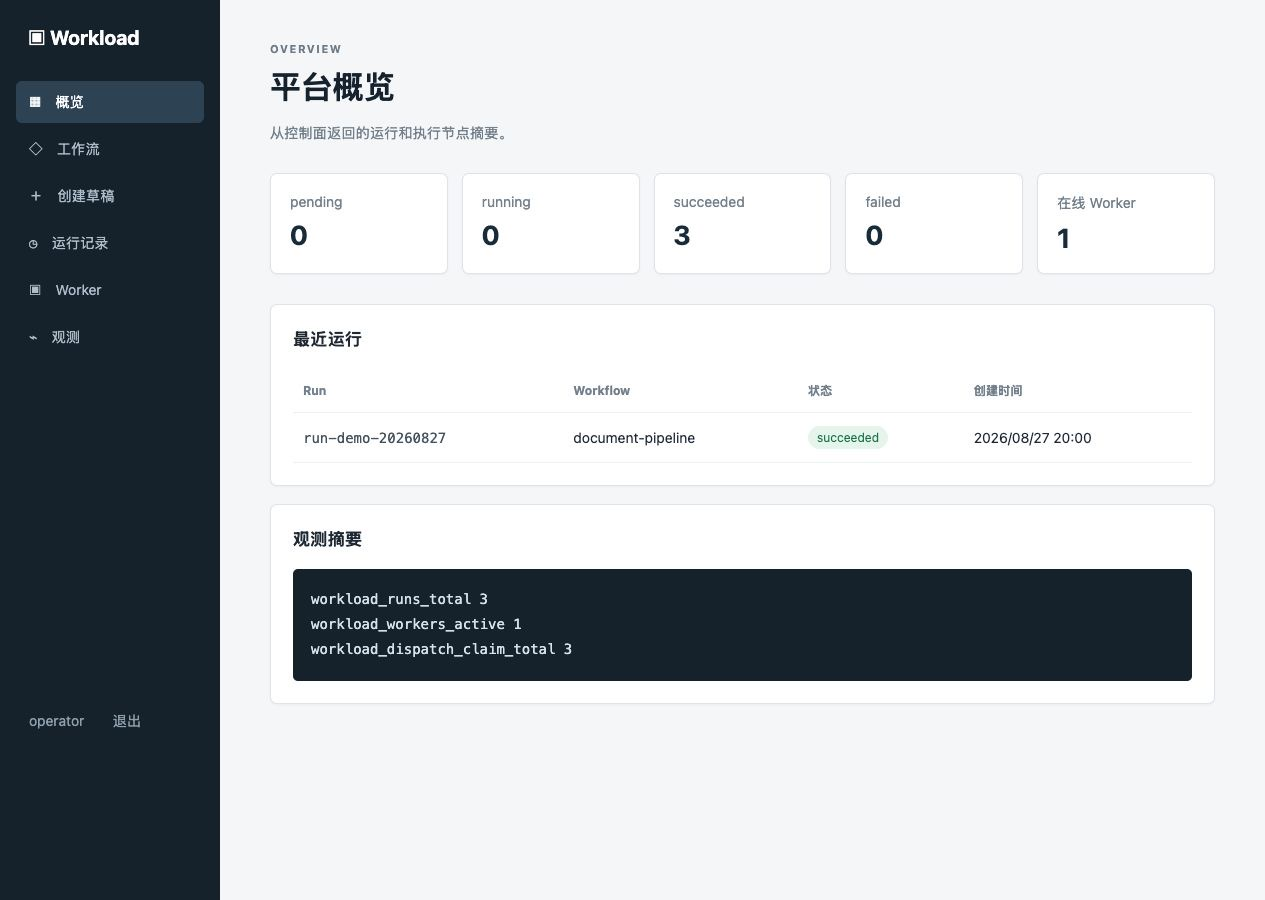
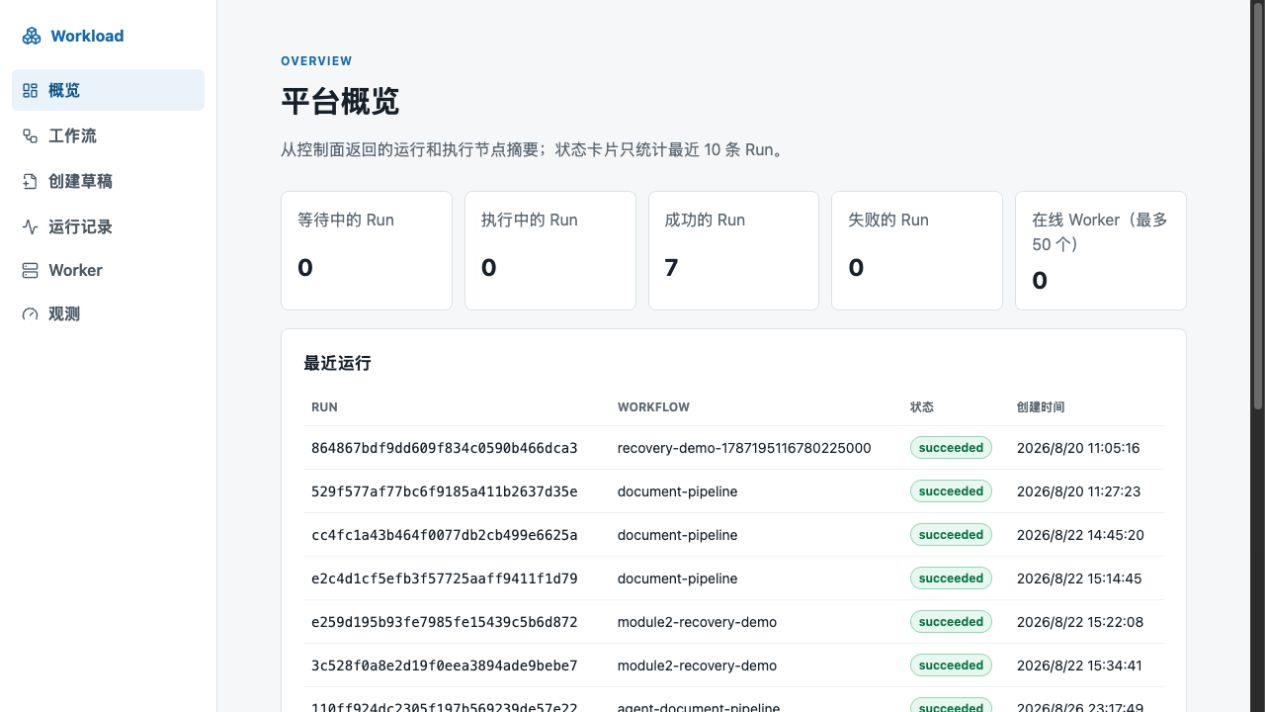
完善模块7控制台演示文档与截图

diff --git a/web/src/pages/OverviewPage.tsx b/web/src/pages/OverviewPage.tsx
@@ -11,5 +11,6 @@ export function OverviewPage({ client }: { client: ApiClient }): ReactElement {
   const [error, setError] = useState<Error>();
   useEffect(() => { const controller = new AbortController(); void Promise.all([client.get<RunPage>("/api/v1/runs?limit=10", controller.signal), client.get<WorkerPage>("/api/v1/workers?limit=50", controller.signal), client.getText("/metrics", controller.signal)]).then(([runPage, workerPage, text]) => { setRuns(runPage); setWorkers(workerPage); setMetrics(text); }).catch((caught) => { if (!(caught instanceof DOMException && caught.name === "AbortError")) setError(caught instanceof Error ? caught : new Error("加载概览失败")); }); return () => controller.abort(); }, [client]);
   const counts = runs?.items.reduce<Record<string, number>>((all, run) => ({ ...all, [run.status]: (all[run.status] ?? 0) + 1 }), {}) ?? {};
-  return <section><header className="page-header"><p className="eyebrow">Overview</p><h1>平台概览</h1><p className="muted">从控制面返回的运行和执行节点摘要。</p></header><AsyncState loading={!runs && !workers} error={error}><div className="stat-grid">{["pending", "running", "succeeded", "failed"].map((status) => <div className="stat-panel" key={status}><span className="muted">{status}</span><strong>{counts[status] ?? 0}</strong></div>)}<div className="stat-panel"><span className="muted">在线 Worker</span><strong>{workers?.items.filter((worker) => worker.status === "active").length ?? 0}</strong></div></div><section className="content-panel"><h2>最近运行</h2>{runs?.items.length ? <div className="table-wrap"><table><thead><tr><th>Run</th><th>Workflow</th><th>状态</th><th>创建时间</th></tr></thead><tbody>{runs.items.map((run) => <tr key={run.run_id}><td><code>{run.run_id}</code></td><td>{run.workflow_id}</td><td><StatusBadge value={run.status} /></td><td>{new Date(run.created_at).toLocaleString()}</td></tr>)}</tbody></table></div> : <p className="muted">暂无运行记录</p>}</section><section className="content-panel"><h2>观测摘要</h2><pre className="metrics-preview">{metrics || "暂无 Metrics"}</pre></section></AsyncState></section>;
+  const runStatusLabels: Record<string, string> = { pending: "等待中的 Run", running: "执行中的 Run", succeeded: "成功的 Run", failed: "失败的 Run" };
+  return <section><header className="page-header"><p className="eyebrow">Overview</p><h1>平台概览</h1><p className="muted">从控制面返回的运行和执行节点摘要；状态卡片只统计最近 10 条 Run。</p></header><AsyncState loading={!runs && !workers} error={error}><div className="stat-grid">{["pending", "running", "succeeded", "failed"].map((status) => <div className="stat-panel" key={status}><span className="muted">{runStatusLabels[status]}</span><strong>{counts[status] ?? 0}</strong></div>)}<div className="stat-panel"><span className="muted">在线 Worker（最多 50 个）</span><strong>{workers?.items.filter((worker) => worker.status === "active").length ?? 0}</strong></div></div><section className="content-panel"><h2>最近运行</h2>{runs?.items.length ? <div className="table-wrap"><table><thead><tr><th>Run</th><th>Workflow</th><th>状态</th><th>创建时间</th></tr></thead><tbody>{runs.items.map((run) => <tr key={run.run_id}><td><code>{run.run_id}</code></td><td>{run.workflow_id}</td><td><StatusBadge value={run.status} /></td><td>{new Date(run.created_at).toLocaleString()}</td></tr>)}</tbody></table></div> : <p className="muted">暂无运行记录</p>}</section><section className="content-panel"><h2>观测摘要</h2><pre className="metrics-preview">{metrics || "暂无 Metrics"}</pre></section></AsyncState></section>;
 }

diff --git a/README.md b/README.md
@@ -92,20 +92,20 @@ go run ./cmd/workload-server migrate up
 go run ./cmd/workload-server
 ```
 
-控制面启动后，在两个新终端中加载相同的本机配置，并为每个进程设置不同名称：
+控制面启动后，在一个新终端中加载相同的本机配置并启动一个 Worker：
 
 ```bash
 set -a
 source .env.local
 set +a
 export WORKLOAD_SERVER_URL='http://127.0.0.1:8080'
-export WORKLOAD_WORKER_NAME='worker-a'
+export WORKLOAD_WORKER_NAME='worker-main'
 go run ./cmd/workload-worker
 ```
 
-第二个 Worker 使用 `WORKLOAD_WORKER_NAME='worker-b'`。Worker 会自行注册、按空闲槽位领取、心跳续租并提交 Mock 结果。要执行模块 6 的受限任务，把 Worker 的 `WORKLOAD_WORKER_RUNTIME` 设为 `docker` 或 `kubernetes`，并准备仓库内固定动作镜像。完整演示见[项目本地运行、演示与换电脑手册](docs/部署/本地开发与配置.md)。
+Worker 会自行注册、按空闲槽位领取、心跳续租并提交 Mock 结果。第二个 Worker 只在多 Worker 专项验证时启动；模块 6 的 Docker/Kubernetes 执行器也属于专项路径。完整演示见[项目本地运行、演示与换电脑手册](docs/部署/本地开发与配置.md)。
 
-Docker 登录不是本地公开 PostgreSQL 镜像的前置条件。新电脑环境准备、完整运行步骤和当前推荐演示见[项目本地运行、演示与换电脑手册](docs/部署/本地开发与配置.md)。该手册会随后续模块持续更新，README 只保留当前版本的最短启动入口。
+Docker 登录不是本地公开 PostgreSQL 镜像的前置条件。新电脑环境准备、完整运行步骤和当前推荐演示见[项目本地运行、演示与换电脑手册](docs/部署/本地开发与配置.md)。该手册按仓库版本维护，README 只保留当前版本的最短启动入口。
 
 启动浏览器控制台（需要先启动 PostgreSQL、控制面和至少一个 Worker）：
 

diff --git a/docs/实验/模块7验证报告.md b/docs/实验/模块7验证报告.md
@@ -60,4 +60,4 @@ go test ./agent ./internal/httpapi ./internal/config ./cmd/workload ./cmd/worklo
 
 ## 真实模型验证状态
 
-本报告没有执行外部真实模型调用。仓库中的 `agent/httpmodel` 只通过本机 `httptest.Server` 验证 OpenAI-compatible HTTP 请求、工具调用消息、JSON Schema、429、非法响应和取消。若要进行人工冒烟，请按[模块 3 验证与限制](./模块3验证与限制.md)中的记录模板，在本机 `.env.local` 配置凭证后显式使用 `--model http`；不要把凭证、完整输入或供应商响应写入仓库。人工冒烟成功后，需要单独补充服务类型、模型名、工具调用、结构化输出、服务端校验、错误边界和脱敏性能摘要，不能把默认 Mock 闭环改写成真实模型证据。
+本报告没有执行外部真实模型调用，也不把真实模型作为模块 7的复现前置条件。仓库中的 `agent/httpmodel` 只通过本机 `httptest.Server` 验证 OpenAI-compatible HTTP 请求、工具调用消息、JSON Schema、429、非法响应和取消。未来如果进行具体供应商的人工冒烟，需要单独记录服务类型、模型名、工具调用、结构化输出、服务端校验、错误边界和脱敏性能摘要，不能把默认 Mock 闭环改写成真实模型证据。
